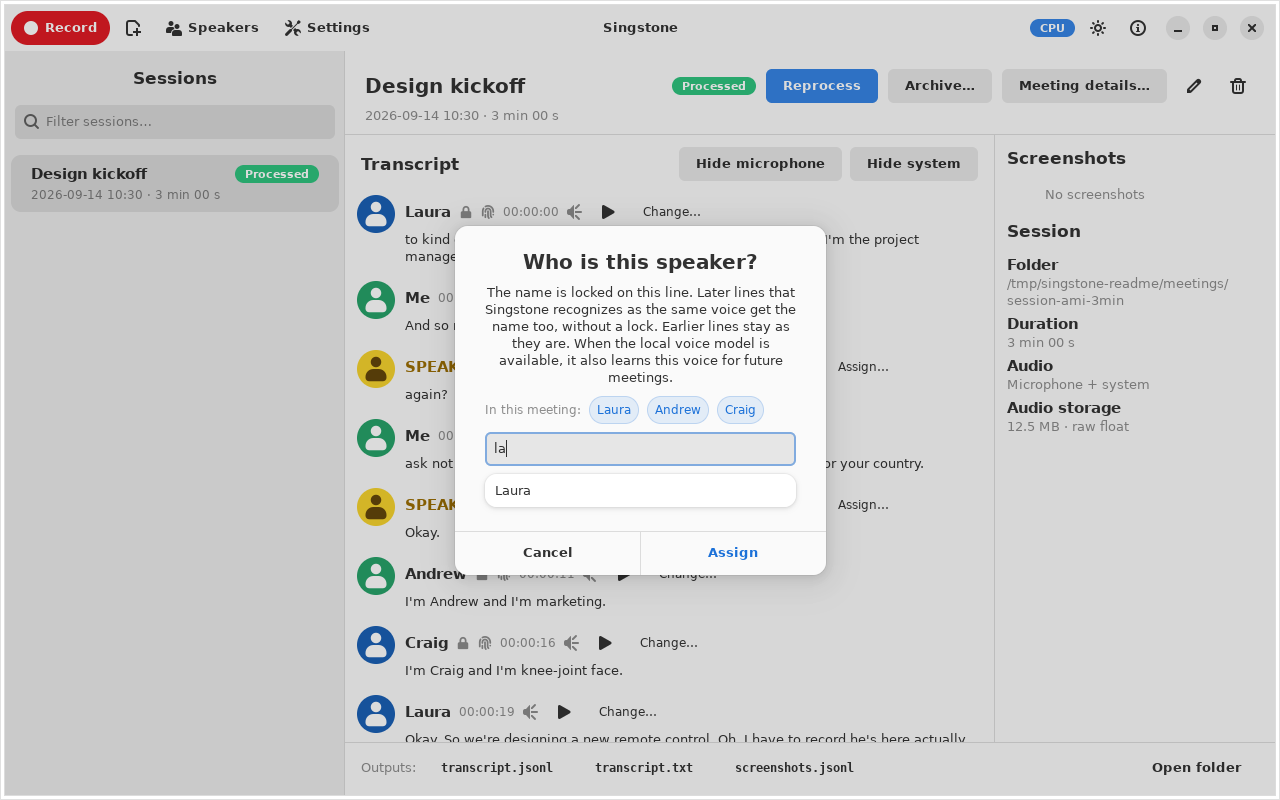
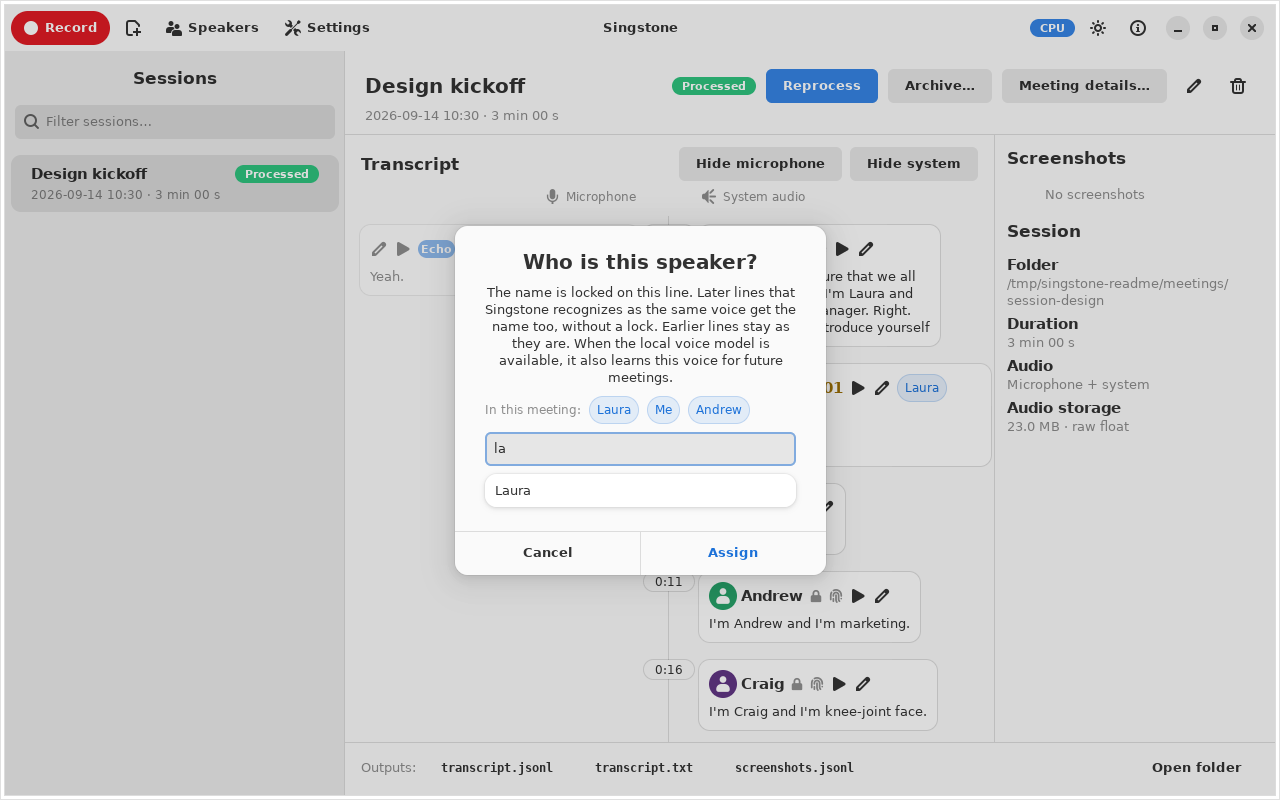
Describe the timeline transcript in the README
The session view now shows the microphone and the system audio on
either side of a timeline and keeps echo visible, so the application
section explains that and the feature list names echo marking on its
own. Every screenshot that shows the session view is retaken; the
Speakers page is unchanged.

diff --git a/README.md b/README.md
@@ -18,13 +18,17 @@ weights download on first use and remain in a persistent per-user cache.
 ## Application
 
 Browse processed meetings and review speaker-attributed transcripts from the
-session view. Confirm individual names so they stay locked across reprocessing,
-use quick speaker shortcuts on anonymous lines, or change a named line.
+session view. Microphone lines sit to the left of a shared timeline and system
+audio lines to the right; speech that overlaps shares a row. Loudspeaker sound
+picked up by the microphone stays visible, dimmed and marked **Echo**, beside
+the remote line it repeats. Confirm individual names so they stay locked across
+reprocessing, use quick speaker shortcuts on anonymous lines, or change a named
+line.
 Use **Hide microphone** or **Hide system** to leave that source out of
 both transcript files without deleting anything. Hiding the microphone is
 useful when you only listened and it recorded nothing but leaked speaker audio.
 
-![Processed transcript with confirmed speaker names and quick assignment controls](docs/images/transcript.png)
+![Processed transcript with microphone lines left of a timeline, system audio lines right of it, and dimmed echo lines](docs/images/transcript.png)
 
 Type a speaker name to filter learned voices and names already used in the
 meeting, then choose a suggestion or assign a new name.
@@ -61,8 +65,9 @@ preserving the recorded audio and confirmed names.
 - Automatically accelerates Whisper with Intel SYCL on a compatible Intel GPU,
   preferring Level Zero and retrying through OpenCL before using CPU.
 - Recognizes learned voices while leaving uncertain matches anonymous.
-- Uses per-meeting attendee details to guide speaker counts and recognition,
-  while audio matching marks loudspeaker sound picked up by the microphone.
+- Uses per-meeting attendee details to guide speaker counts and recognition.
+- Marks loudspeaker sound picked up by the microphone as echo by comparing the
+  two recordings, without deleting it.
 - Hides either audio source from a session's transcript without deleting it.
 - Provides a native GTK interface with live capture meters, screenshot counts,
   per-stage processing progress, transcript-side audio playback, editable
